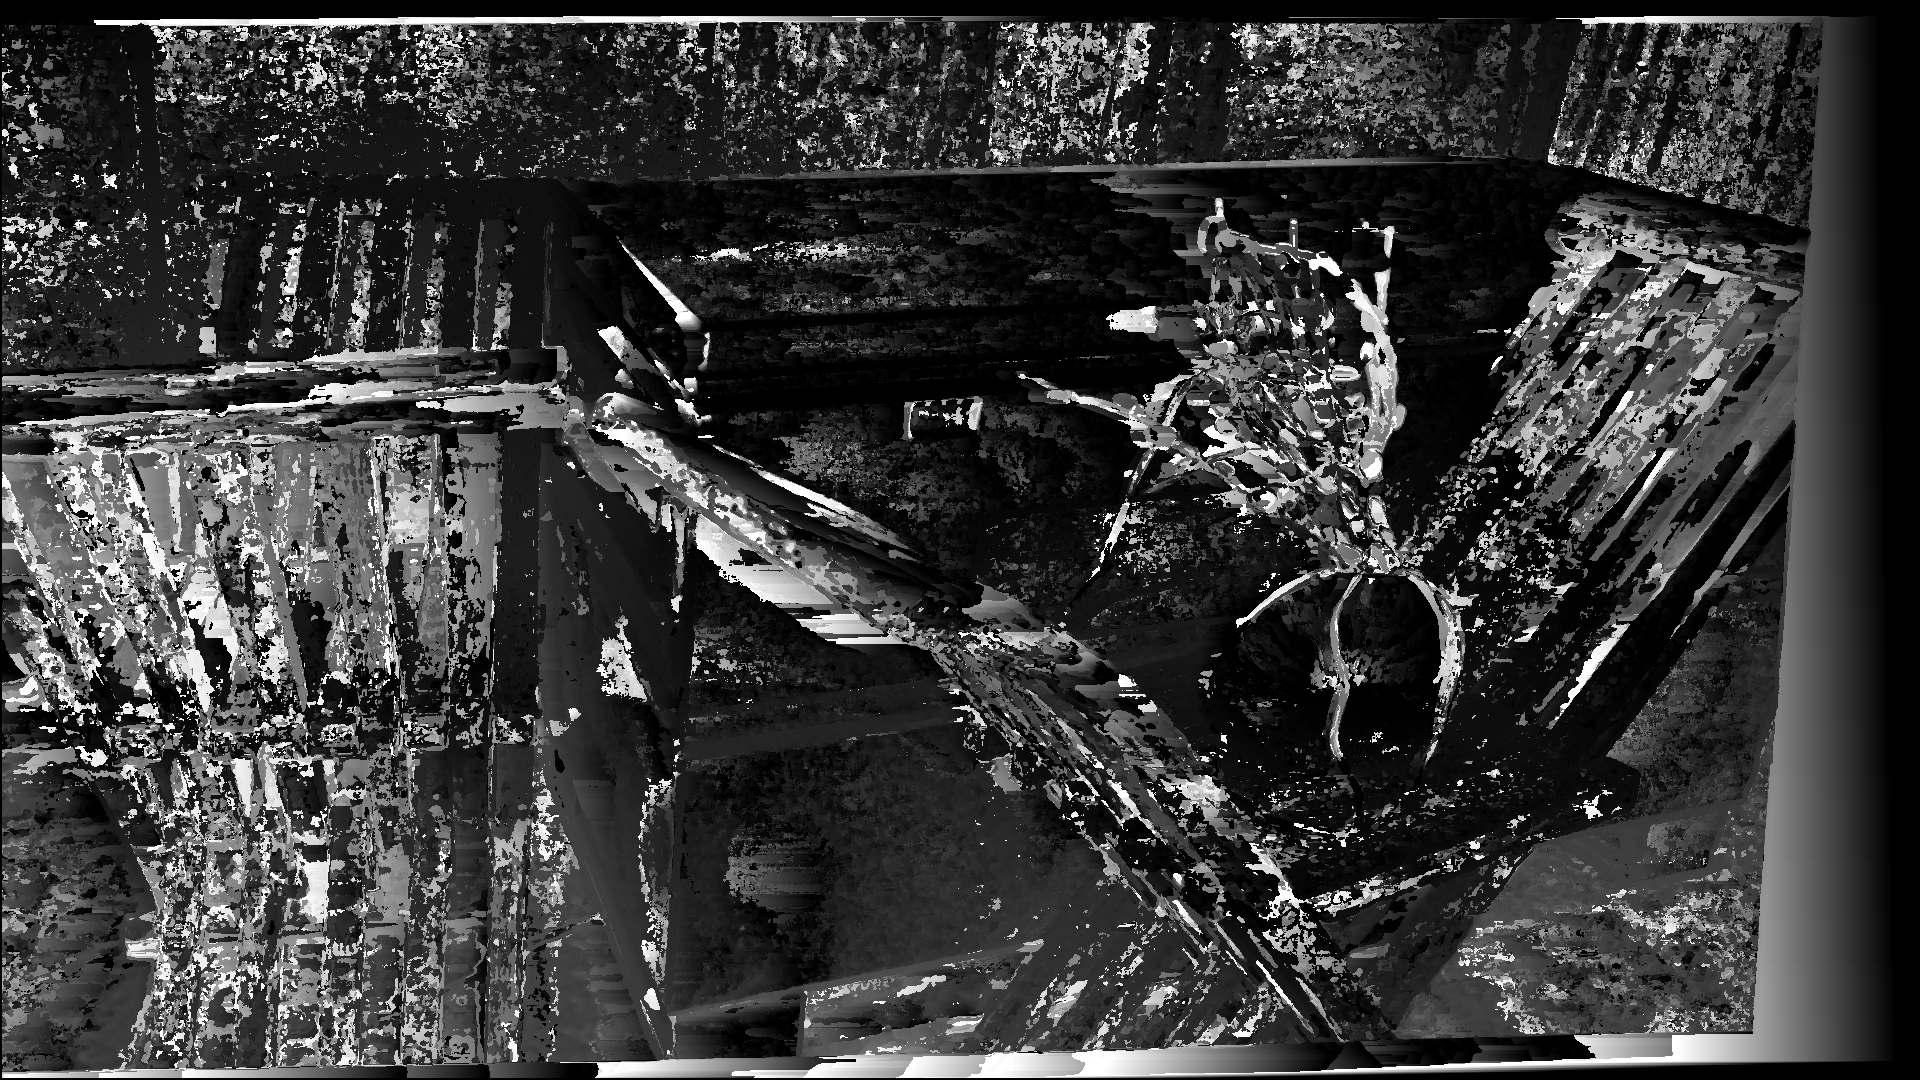
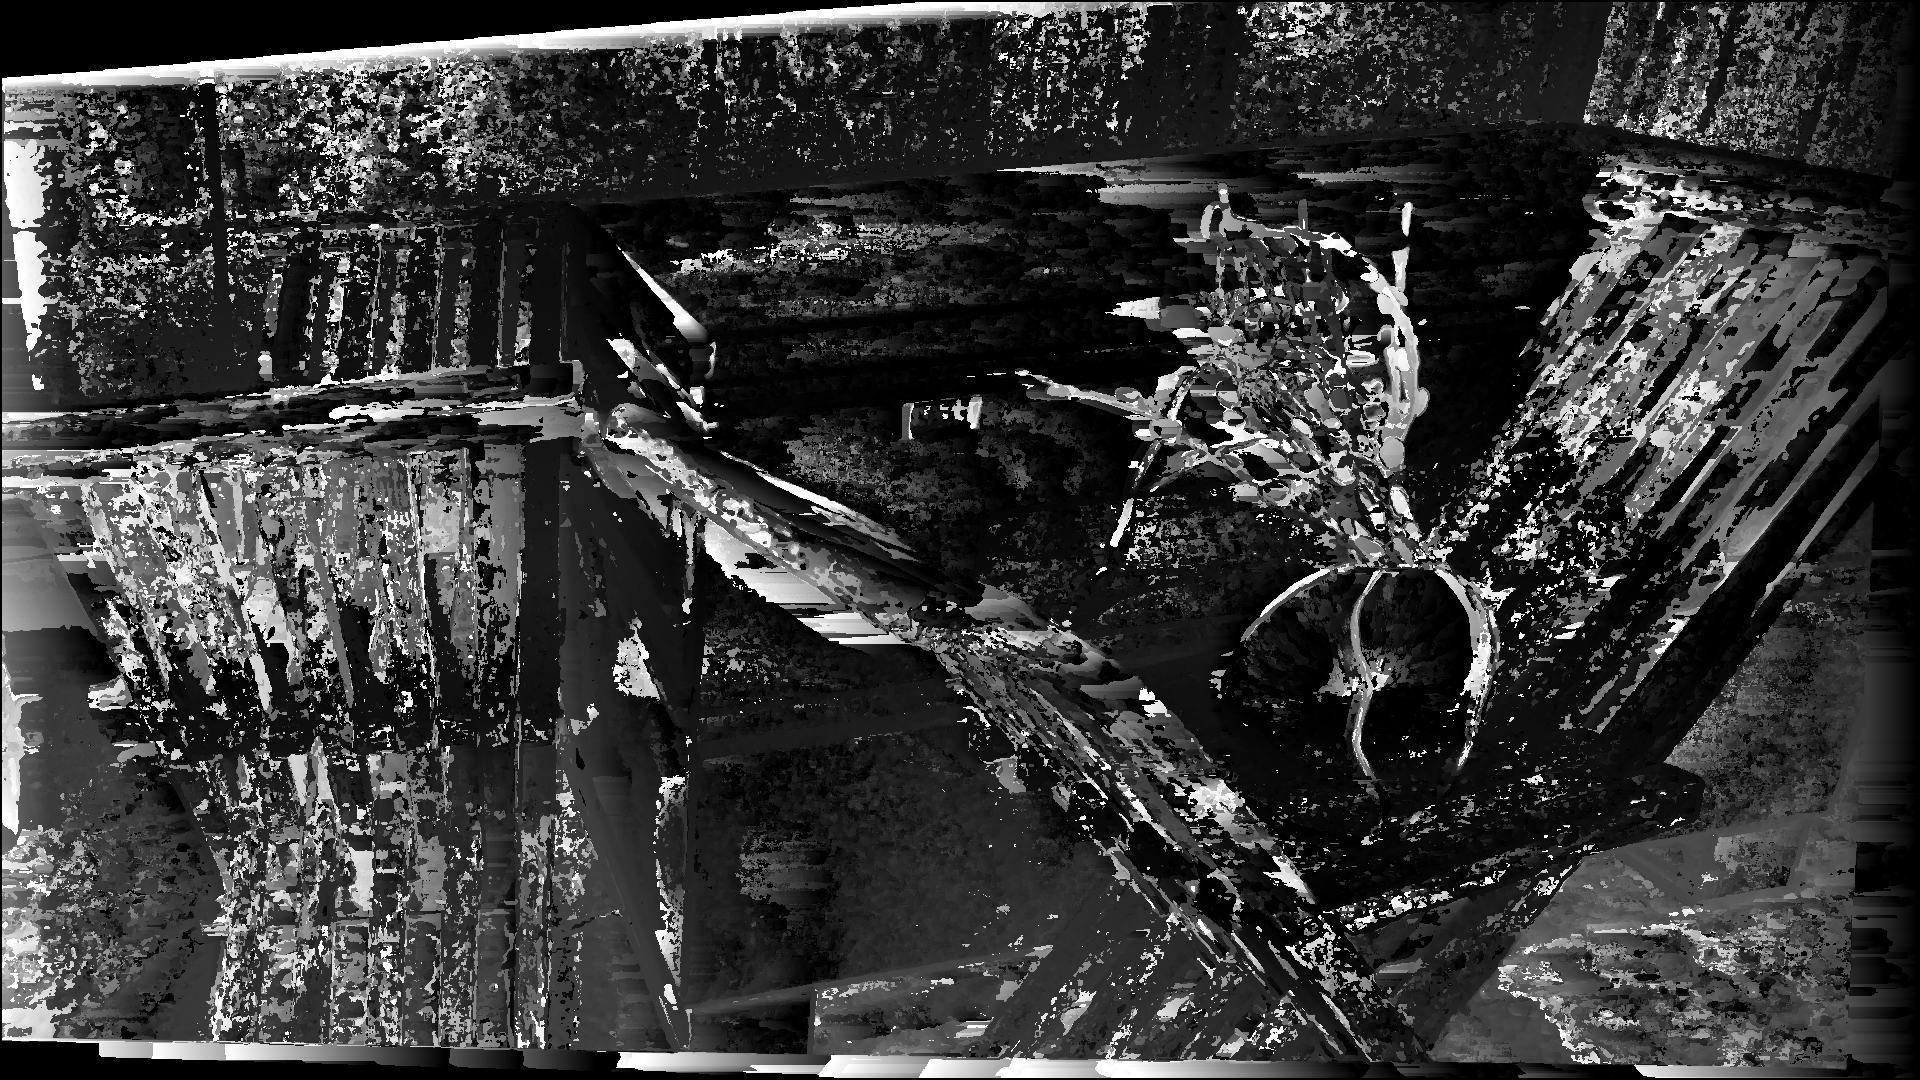
add histogram

diff --git a/Proj3/Proj3.py b/Proj3/Proj3.py
@@ -296,7 +296,8 @@ def ComputeDepthImage(shape, disp_img, K, baseline):
     depth = np.zeros(shape=shape).astype(float)
     #apply focal * baseline / disparity to get depth
     depth[disp_img > 0] = (f * baseline) / (disp_img[disp_img > 0])
-    img_depth = ((depth/depth.max())*255).astype(np.uint8)
+    img = ((depth/depth.max())*255).astype(np.uint8)
+    img_depth = cv2.equalizeHist(img)
     #utilize colormap to get heatmap
     heatmap = cv2.applyColorMap(img_depth, cv2.COLORMAP_HOT)
     cv2.imwrite("depth.png", img_depth)
